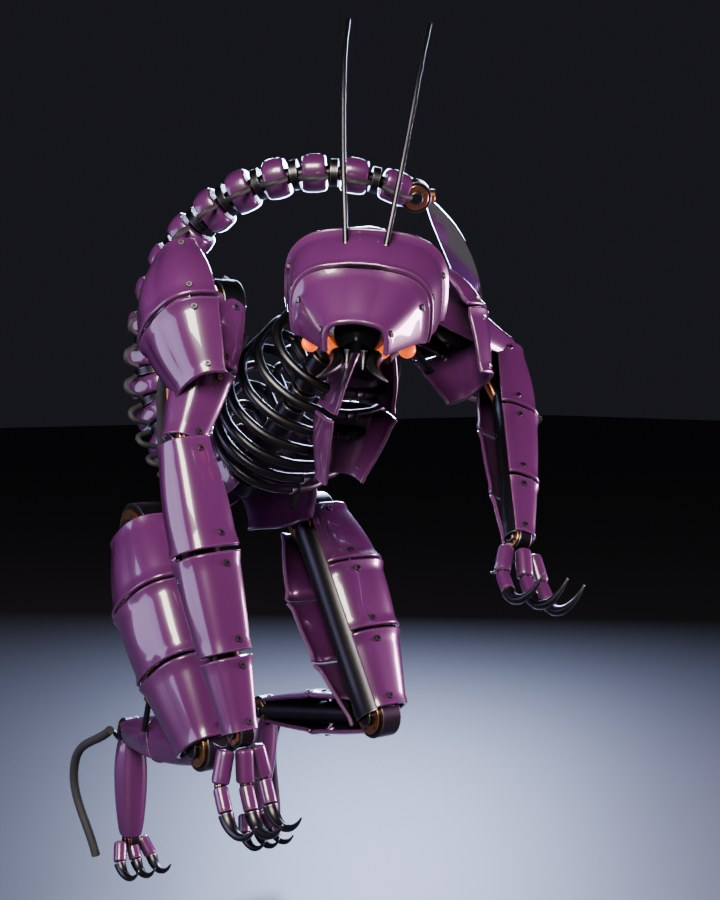
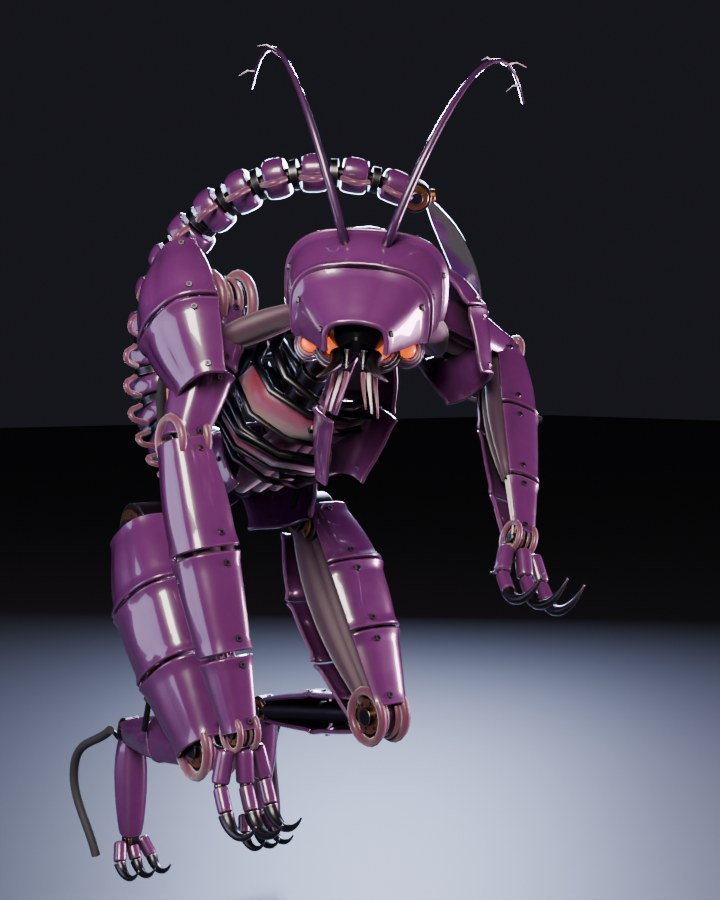
Scytheling: process write-up, biomech anatomy pass and poses on the new version

diff --git a/content/3d/scytheling/body.html b/content/3d/scytheling/body.html
@@ -1,0 +1,22 @@
+<h2>where it came from</h2>
+<p>The Scytheling started as a test for the painted lattice idea. A model sheet and a side view were laid behind the scene as reference planes, and the creature was built to match them. Image generators and an image-to-3D model were tried first for the parts. The results were soft and lumpy, so they were dropped and every part was built from code instead.</p>
+
+<h2>built from parts</h2>
+<p>Each armour plate is a loft, a cross-section swept along a path, with a profile that swells and tapers along its length. Plates get seams, bolts, a dark underside and a little wear on the edges. Joints are stacked cylinders and collars, the arms and legs carry hydraulic pistons, and the tail is a chain of capsules ending in a curved blade.</p>
+<p>Under all of it is a rig. The claws and feet have IK, so moving a target moves the whole limb. The spine, neck and tail are chains of bones, and each part is parented to the bone it sits on.</p>
+
+<h2>poses</h2>
+<p>Because it's rigged, each pose is a short script that turns the spine and neck, moves the claw targets and bends the tail a few degrees per segment. Stalk, rear, strike and glance are four of those scripts, rendered in Cycles from the same file.</p>
+
+<h2>making it biomechanical</h2>
+<figure><img src="biomech-before-after.jpg" alt="the creature's head before, all clean plates, beside the torso after, with muscle bundles, tendons and ringed joints"><figcaption>before, and after the anatomy pass</figcaption></figure>
+<p>A vision model's critique kept coming back to one point. It read as a robot assembled from parts, and it should look like an organism whose biology happens to be metal. So a second script grows anatomy over the machine without touching the original build:</p>
+<ul>
+<li>muscle bundles that swell in the middle and thin at the ends, some sliding out from under the plates</li>
+<li>pale tendons that converge at the wrists and split three ways towards the fingers</li>
+<li>uneven ribs, roomy at the top and crowded near the belly, flattened instead of round, with dark membrane stretched across some gaps</li>
+<li>ringed joint capsules at the shoulders, elbows, wrists and knees</li>
+<li>a tendon sheaf for a neck, sensors sunk into ridged sockets, curled feelers with small branches, and palps under the mandibles</li>
+<li>a restrained noise in the purple paint so it reads as chitin rather than a car panel</li>
+</ul>
+<p>Everything new is bound to the same rig, so the poses still work on the new version.</p>
